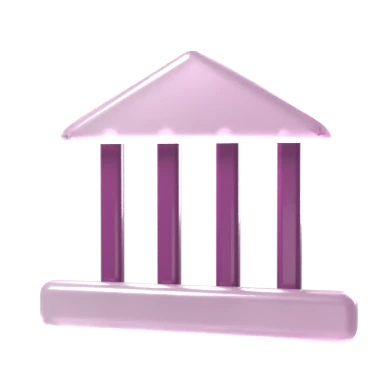
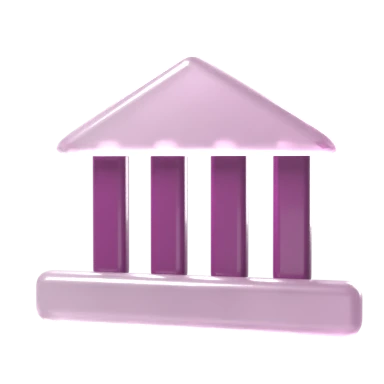
v5: chunkier bank columns

Changed region(s): [[0.0938, 0.125, 0.9688, 0.9062]]

diff --git a/source/v5/sectors.html b/source/v5/sectors.html
@@ -50,7 +50,7 @@
     <div class="page">
       <div class="bento rise">
         <a class="tile" href="#banking">
-          <img class="tile-icon" src="../assets/icons-3d/bank.webp?v=38" alt="" width="384" height="384" decoding="async">
+          <img class="tile-icon" src="../assets/icons-3d/bank.webp?v=39" alt="" width="384" height="384" decoding="async">
           <h3>Banking, Private Equity &amp;&nbsp;Financial Services</h3>
           <div class="tile-reveal"><div>
             <ul class="tags"><li>Investment banking</li><li>Wealth management</li><li>Private equity</li><li>Retail banking</li><li>Risk</li></ul>
@@ -60,7 +60,7 @@
           <span class="tile-go" aria-hidden="true">→</span>
         </a>
         <a class="tile" href="#consulting">
-          <img class="tile-icon" src="../assets/icons-3d/chart.webp?v=38" alt="" width="384" height="384" decoding="async">
+          <img class="tile-icon" src="../assets/icons-3d/chart.webp?v=39" alt="" width="384" height="384" decoding="async">
           <h3>Consulting &amp;&nbsp;Advisory</h3>
           <div class="tile-reveal"><div>
             <ul class="tags"><li>Strategy</li><li>Research</li><li>Advisory firms</li></ul>
@@ -70,7 +70,7 @@
           <span class="tile-go" aria-hidden="true">→</span>
         </a>
         <a class="tile" href="#consumer">
-          <img class="tile-icon" src="../assets/icons-3d/factory.webp?v=38" alt="" width="384" height="384" decoding="async">
+          <img class="tile-icon" src="../assets/icons-3d/factory.webp?v=39" alt="" width="384" height="384" decoding="async">
           <h3>FMCG, Healthcare &amp;&nbsp;Industrials</h3>
           <div class="tile-reveal"><div>
             <ul class="tags"><li>Consumer</li><li>Healthcare</li><li>Life sciences</li><li>Industrial</li></ul>
@@ -80,7 +80,7 @@
           <span class="tile-go" aria-hidden="true">→</span>
         </a>
         <a class="tile" href="#legal">
-          <img class="tile-icon" src="../assets/icons-3d/scales.webp?v=38" alt="" width="384" height="384" decoding="async">
+          <img class="tile-icon" src="../assets/icons-3d/scales.webp?v=39" alt="" width="384" height="384" decoding="async">
           <h3>Legal</h3>
           <div class="tile-reveal"><div>
             <ul class="tags"><li>In-house counsel</li><li>Law-firm partners</li><li>Practice groups</li></ul>
@@ -90,7 +90,7 @@
           <span class="tile-go" aria-hidden="true">→</span>
         </a>
         <a class="tile" href="#media">
-          <img class="tile-icon" src="../assets/icons-3d/megaphone.webp?v=38" alt="" width="384" height="384" decoding="async">
+          <img class="tile-icon" src="../assets/icons-3d/megaphone.webp?v=39" alt="" width="384" height="384" decoding="async">
           <h3>Media, Advertising &amp;&nbsp;Hospitality</h3>
           <div class="tile-reveal"><div>
             <ul class="tags"><li>Agency leadership</li><li>Account planning</li><li>Digital strategy</li><li>Hotels</li></ul>
@@ -100,7 +100,7 @@
           <span class="tile-go" aria-hidden="true">→</span>
         </a>
         <a class="tile" href="#social">
-          <img class="tile-icon" src="../assets/icons-3d/heart.webp?v=38" alt="" width="384" height="384" decoding="async">
+          <img class="tile-icon" src="../assets/icons-3d/heart.webp?v=39" alt="" width="384" height="384" decoding="async">
           <h3>IQ Social</h3>
           <div class="tile-reveal"><div>
             <ul class="tags"><li>CSR teams</li><li>NGOs</li><li>Foundations</li></ul>
@@ -118,7 +118,7 @@
     <div class="page sector-list">
       <article class="sector" id="banking" aria-labelledby="banking-title">
         <div class="sector-side">
-          <img class="sector-icon" src="../assets/icons-3d/bank.webp?v=38" alt="" width="384" height="384" decoding="async">
+          <img class="sector-icon" src="../assets/icons-3d/bank.webp?v=39" alt="" width="384" height="384" decoding="async">
           <h2 id="banking-title">Banking, Private Equity &amp;&nbsp;Financial Services</h2>
           <p class="lead-by"><span class="face"><img src="../assets/team-face/ashmita.jpg" alt="" width="160" height="160"></span><span>Led by Ashmita Ray Sarkar</span></p>
         </div>
@@ -133,7 +133,7 @@
       </article>
       <article class="sector" id="consulting" aria-labelledby="consulting-title">
         <div class="sector-side">
-          <img class="sector-icon" src="../assets/icons-3d/chart.webp?v=38" alt="" width="384" height="384" decoding="async">
+          <img class="sector-icon" src="../assets/icons-3d/chart.webp?v=39" alt="" width="384" height="384" decoding="async">
           <h2 id="consulting-title">Consulting &amp;&nbsp;Advisory</h2>
           <p class="lead-by"><span class="face"><img src="../assets/team-face/ashmita.jpg" alt="" width="160" height="160"></span><span>Led by Ashmita Ray Sarkar</span></p>
         </div>
@@ -146,7 +146,7 @@
       </article>
       <article class="sector" id="consumer" aria-labelledby="consumer-title">
         <div class="sector-side">
-          <img class="sector-icon" src="../assets/icons-3d/factory.webp?v=38" alt="" width="384" height="384" decoding="async">
+          <img class="sector-icon" src="../assets/icons-3d/factory.webp?v=39" alt="" width="384" height="384" decoding="async">
           <h2 id="consumer-title">FMCG, Healthcare &amp;&nbsp;Industrials</h2>
           <p class="lead-by"><span class="face"><img src="../assets/team-face/ashmita.jpg" alt="" width="160" height="160"></span><span>Led by Ashmita Ray Sarkar</span></p>
         </div>
@@ -160,7 +160,7 @@
       </article>
       <article class="sector" id="legal" aria-labelledby="legal-title">
         <div class="sector-side">
-          <img class="sector-icon" src="../assets/icons-3d/scales.webp?v=38" alt="" width="384" height="384" decoding="async">
+          <img class="sector-icon" src="../assets/icons-3d/scales.webp?v=39" alt="" width="384" height="384" decoding="async">
           <h2 id="legal-title">Legal</h2>
           <p class="lead-by"><span class="face"><img src="../assets/team-face/shirin.jpg" alt="" width="160" height="160"></span><span>Led by Shirin Gulrajani Talwar</span></p>
         </div>
@@ -174,7 +174,7 @@
       </article>
       <article class="sector" id="media" aria-labelledby="media-title">
         <div class="sector-side">
-          <img class="sector-icon" src="../assets/icons-3d/megaphone.webp?v=38" alt="" width="384" height="384" decoding="async">
+          <img class="sector-icon" src="../assets/icons-3d/megaphone.webp?v=39" alt="" width="384" height="384" decoding="async">
           <h2 id="media-title">Media, Advertising &amp;&nbsp;Hospitality</h2>
           <p class="lead-by"><span class="face"><img src="../assets/team-face/annu.jpg" alt="" width="160" height="160"></span><span>Led by Annu Paul</span></p>
         </div>
@@ -188,7 +188,7 @@
       </article>
       <article class="sector" id="social" aria-labelledby="social-title">
         <div class="sector-side">
-          <img class="sector-icon" src="../assets/icons-3d/heart.webp?v=38" alt="" width="384" height="384" decoding="async">
+          <img class="sector-icon" src="../assets/icons-3d/heart.webp?v=39" alt="" width="384" height="384" decoding="async">
           <h2 id="social-title">IQ Social</h2>
           <p class="lead-by"><span class="face"><img src="../assets/team-face/christine.jpg" alt="" width="160" height="160"></span><span>Led by Christine Gomes</span></p>
         </div>

diff --git a/source/v5/index.html b/source/v5/index.html
@@ -98,7 +98,7 @@
       </div>
       <div class="bento rise">
         <a class="tile" href="sectors.html#banking">
-          <img class="tile-icon" src="../assets/icons-3d/bank.webp?v=38" alt="" width="384" height="384" decoding="async">
+          <img class="tile-icon" src="../assets/icons-3d/bank.webp?v=39" alt="" width="384" height="384" decoding="async">
           <h3>Banking, Private Equity &amp;&nbsp;Financial Services</h3>
           <div class="tile-reveal"><div>
             <ul class="tags"><li>Investment banking</li><li>Wealth management</li><li>Private equity</li><li>Retail banking</li><li>Risk</li></ul>
@@ -108,7 +108,7 @@
           <span class="tile-go" aria-hidden="true">→</span>
         </a>
         <a class="tile" href="sectors.html#consulting">
-          <img class="tile-icon" src="../assets/icons-3d/chart.webp?v=38" alt="" width="384" height="384" decoding="async">
+          <img class="tile-icon" src="../assets/icons-3d/chart.webp?v=39" alt="" width="384" height="384" decoding="async">
           <h3>Consulting &amp;&nbsp;Advisory</h3>
           <div class="tile-reveal"><div>
             <ul class="tags"><li>Strategy</li><li>Research</li><li>Advisory firms</li></ul>
@@ -118,7 +118,7 @@
           <span class="tile-go" aria-hidden="true">→</span>
         </a>
         <a class="tile" href="sectors.html#consumer">
-          <img class="tile-icon" src="../assets/icons-3d/factory.webp?v=38" alt="" width="384" height="384" decoding="async">
+          <img class="tile-icon" src="../assets/icons-3d/factory.webp?v=39" alt="" width="384" height="384" decoding="async">
           <h3>FMCG, Healthcare &amp;&nbsp;Industrials</h3>
           <div class="tile-reveal"><div>
             <ul class="tags"><li>Consumer</li><li>Healthcare</li><li>Life sciences</li><li>Industrial</li></ul>
@@ -128,7 +128,7 @@
           <span class="tile-go" aria-hidden="true">→</span>
         </a>
         <a class="tile" href="sectors.html#legal">
-          <img class="tile-icon" src="../assets/icons-3d/scales.webp?v=38" alt="" width="384" height="384" decoding="async">
+          <img class="tile-icon" src="../assets/icons-3d/scales.webp?v=39" alt="" width="384" height="384" decoding="async">
           <h3>Legal</h3>
           <div class="tile-reveal"><div>
             <ul class="tags"><li>In-house counsel</li><li>Law-firm partners</li><li>Practice groups</li></ul>
@@ -138,7 +138,7 @@
           <span class="tile-go" aria-hidden="true">→</span>
         </a>
         <a class="tile" href="sectors.html#media">
-          <img class="tile-icon" src="../assets/icons-3d/megaphone.webp?v=38" alt="" width="384" height="384" decoding="async">
+          <img class="tile-icon" src="../assets/icons-3d/megaphone.webp?v=39" alt="" width="384" height="384" decoding="async">
           <h3>Media, Advertising &amp;&nbsp;Hospitality</h3>
           <div class="tile-reveal"><div>
             <ul class="tags"><li>Agency leadership</li><li>Account planning</li><li>Digital strategy</li><li>Hotels</li></ul>
@@ -148,7 +148,7 @@
           <span class="tile-go" aria-hidden="true">→</span>
         </a>
         <a class="tile" href="sectors.html#social">
-          <img class="tile-icon" src="../assets/icons-3d/heart.webp?v=38" alt="" width="384" height="384" decoding="async">
+          <img class="tile-icon" src="../assets/icons-3d/heart.webp?v=39" alt="" width="384" height="384" decoding="async">
           <h3>IQ Social</h3>
           <div class="tile-reveal"><div>
             <ul class="tags"><li>CSR teams</li><li>NGOs</li><li>Foundations</li></ul>
@@ -167,11 +167,11 @@
     <div class="page">
       <div class="section-head"><h2 id="hires-title">Recent hires</h2></div>
       <ul class="hire-rows rise">
-        <li><img class="sector-icon" src="../assets/icons-3d/factory.webp?v=38" alt="" width="384" height="384" decoding="async"><b>CEO</b><span class="org">A leading specialty chemicals manufacturer</span><span class="sec">Industrials</span></li>
-        <li><img class="sector-icon" src="../assets/icons-3d/factory.webp?v=38" alt="" width="384" height="384" decoding="async"><b>CFO</b><span class="org">An Indian precision engineering company</span><span class="sec">Industrials</span></li>
-        <li><img class="sector-icon" src="../assets/icons-3d/bank.webp?v=38" alt="" width="384" height="384" decoding="async"><b>VP, Investments</b><span class="org">A leading Indian private equity firm</span><span class="sec">Private equity</span></li>
-        <li><img class="sector-icon" src="../assets/icons-3d/heart.webp?v=38" alt="" width="384" height="384" decoding="async"><b>Head of CSR, India</b><span class="org">A large European bank</span><span class="sec">IQ Social</span></li>
-        <li><img class="sector-icon" src="../assets/icons-3d/bank.webp?v=38" alt="" width="384" height="384" decoding="async"><b>CMO</b><span class="org">A leading private sector Indian bank</span><span class="sec">Banking</span></li>
+        <li><img class="sector-icon" src="../assets/icons-3d/factory.webp?v=39" alt="" width="384" height="384" decoding="async"><b>CEO</b><span class="org">A leading specialty chemicals manufacturer</span><span class="sec">Industrials</span></li>
+        <li><img class="sector-icon" src="../assets/icons-3d/factory.webp?v=39" alt="" width="384" height="384" decoding="async"><b>CFO</b><span class="org">An Indian precision engineering company</span><span class="sec">Industrials</span></li>
+        <li><img class="sector-icon" src="../assets/icons-3d/bank.webp?v=39" alt="" width="384" height="384" decoding="async"><b>VP, Investments</b><span class="org">A leading Indian private equity firm</span><span class="sec">Private equity</span></li>
+        <li><img class="sector-icon" src="../assets/icons-3d/heart.webp?v=39" alt="" width="384" height="384" decoding="async"><b>Head of CSR, India</b><span class="org">A large European bank</span><span class="sec">IQ Social</span></li>
+        <li><img class="sector-icon" src="../assets/icons-3d/bank.webp?v=39" alt="" width="384" height="384" decoding="async"><b>CMO</b><span class="org">A leading private sector Indian bank</span><span class="sec">Banking</span></li>
       </ul>
     </div>
   </section>

diff --git a/tools/icons3d/render.py b/tools/icons3d/render.py
@@ -188,10 +188,10 @@ T, E = 0.2, 0.085              # plate thickness and edge radius: edges are near
 
 
 def icon_bank(G, A):
-    slab(rounded([(-1.15, 0.48), (1.15, 0.48), (0, 1.15)], 0.1), T, G, 0.0, E)            # roof
+    slab(rounded([(-1.15, 0.4), (1.15, 0.4), (0, 1.1)], 0.1), T, G, 0.0, E)              # roof
     for x in (-0.66, -0.22, 0.22, 0.66):                                                  # columns: a layer behind,
-        slab(rrect(x - 0.085, -0.62, x + 0.085, 0.58, 0.08), 0.12, A, -(T / 2 + 0.07), 0.05)  # ends tucked under roof and base
-    slab(rrect(-1.15, -0.86, 1.15, -0.52, 0.12), T, G, 0.0, E)                            # base
+        slab(rrect(x - 0.13, -0.52, x + 0.13, 0.5, 0.11), 0.14, A, -(T / 2 + 0.08), 0.06)  # ends tucked under roof and base
+    slab(rrect(-1.15, -0.78, 1.15, -0.42, 0.12), T, G, 0.0, E)                            # base
 
 
 def icon_chart(G, A):
